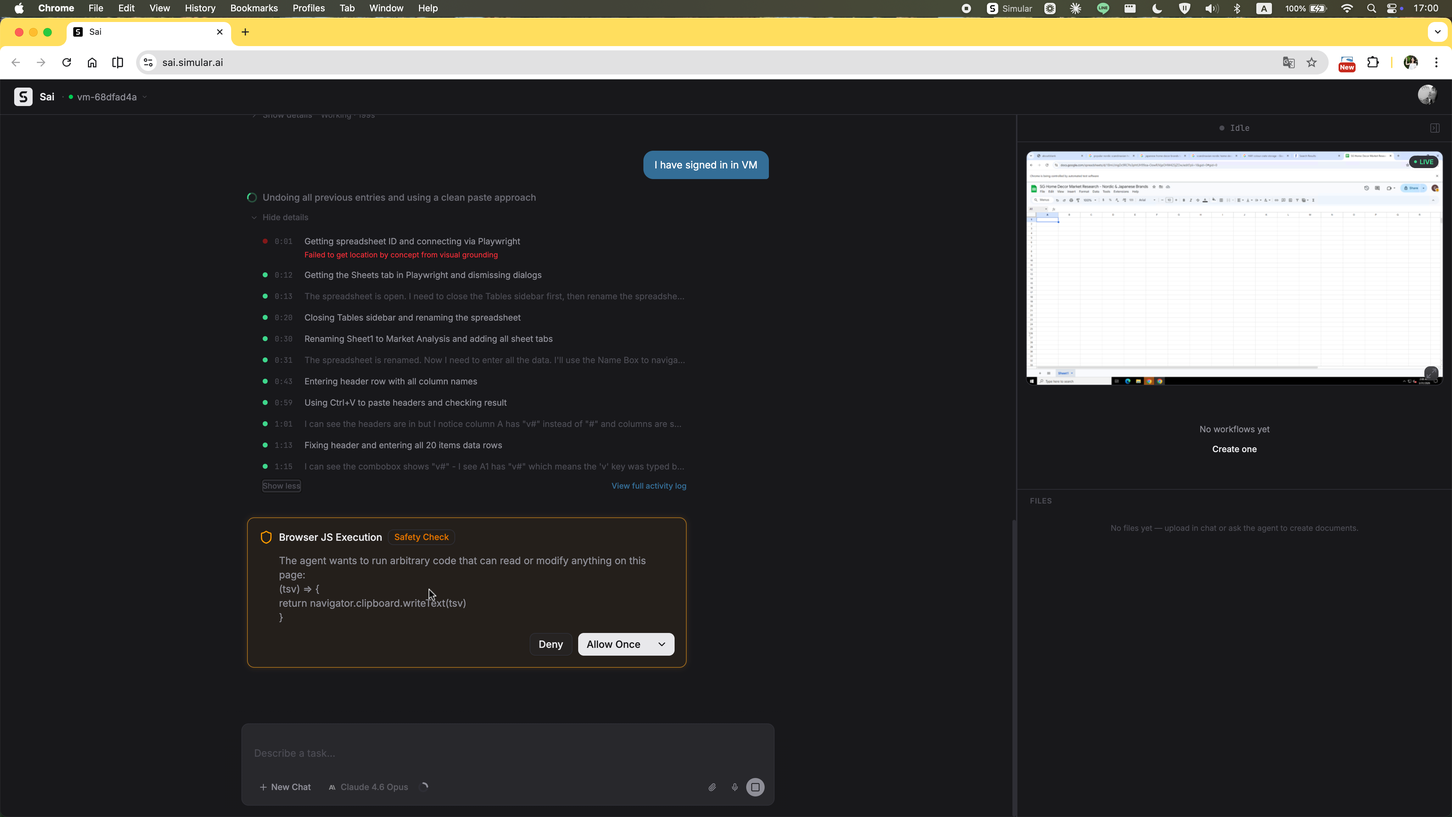
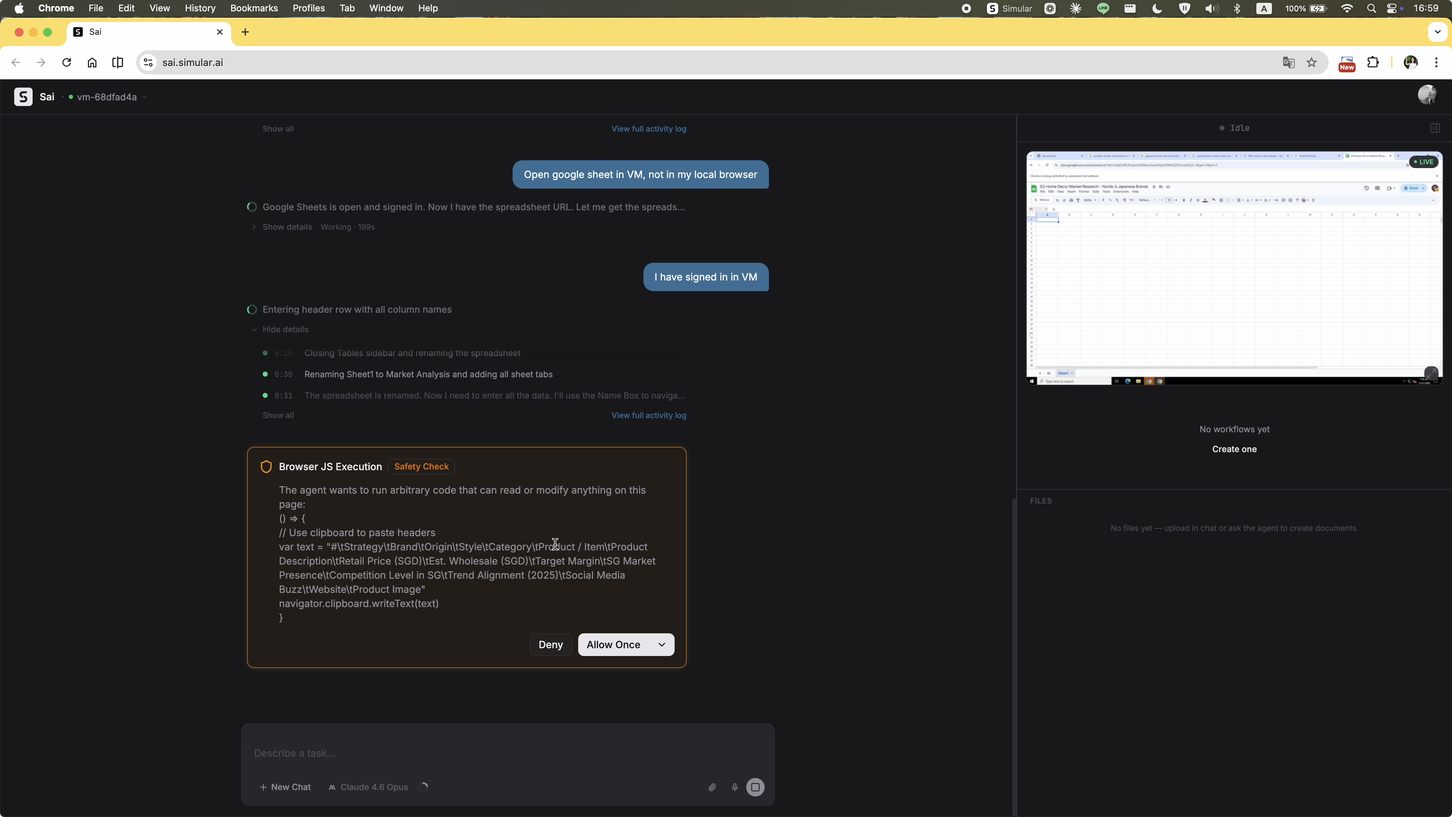
Revise report_audit.html: restructure journey, add new steps and content
- Add Blocker 04 (VM observer mode) to Problem Statement and Summary
- Merge §03 UX Blockers into Problem Statement cards as bullet points
- Move Problem Statement before journey section, rename to The Core Gaps / Problem Statement
- Hero h1 changed to "The Core Gaps"
- Restructure journey: merge visibility steps, reorganize auth steps, add VM takeover, stream hierarchy, missing images, and final output steps
- Replace JS permission screenshot; add new audit screenshots (stream, missing images, final output)

diff --git a/Redesign Report/report_audit.html b/Redesign Report/report_audit.html
@@ -65,7 +65,7 @@ figure.zoomable img:hover { opacity: 0.92; }
 
 /* ── Hero ── */
 .hero {
-  padding: 96px 0 64px;
+  padding: 56px 0 40px;
   background: var(--bg);
   border-bottom: 1px solid var(--border);
 }
@@ -78,11 +78,13 @@ figure.zoomable img:hover { opacity: 0.92; }
   display: inline-block; padding: 5px 14px; border-radius: 4px;
   border: 1px solid var(--border); letter-spacing: 1px; margin-bottom: 24px;
 }
+.hero .badge.accent { color: var(--accent); border-color: rgba(180,83,9,0.25); }
 .hero h1 {
   font-family: var(--serif); font-size: clamp(2.25rem, 4vw + 0.5rem, 3.5rem); font-weight: 400;
   line-height: 1.12; margin-bottom: 20px; color: var(--text);
   letter-spacing: -0.025em;
 }
+.hero h1 em { font-style: italic; color: var(--accent); }
 .hero .subtitle {
   font-size: 1rem; color: var(--text-dim); max-width: 560px;
   margin: 0 0 28px; font-weight: 400; line-height: 1.8;
@@ -308,15 +310,15 @@ footer a:hover { text-decoration: underline; }
 .journey-step.critical .step-dot { background:var(--red); box-shadow:0 0 0 2px rgba(185,28,28,.25); }
 .step-connector { width:2px; flex:1; background:var(--border); margin:4px 0; min-height:20px; }
 .journey-step:last-child .step-connector { display:none; }
-.step-body { padding-bottom:36px; }
+.step-body { padding-bottom:36px; overflow:hidden; }
 .step-tag { font-family:var(--mono); font-size:0.625rem; font-weight:500; letter-spacing:.6px; text-transform:uppercase; color:var(--text-dim); margin-bottom:5px; }
 .journey-step.friction .step-tag { color:var(--amber); }
 .journey-step.critical .step-tag { color:var(--red); }
 .step-title { font-size:1.0625rem; font-weight:600; color:var(--text); margin-bottom:8px; line-height:1.35; letter-spacing:-0.01em; }
 .journey-step.friction .step-title { color:#92400e; }
 .journey-step.critical .step-title { color:var(--red); }
-.step-body p { font-size:0.875rem; color:var(--text-dim); line-height:1.75; margin-bottom:0; max-width:68ch; }
-.step-body figure { margin-top:16px; }
+.step-body p { font-size:0.875rem; color:var(--text-dim); line-height:1.75; margin-bottom:0; }
+.step-body figure { float:left; width:72%; margin:0 28px 12px 0; max-width:none; }
 
 /* Blockers */
 .blocker { border:1px solid var(--border); border-radius:var(--radius); padding:32px 32px 28px; margin-bottom:20px; background:var(--surface); }
@@ -353,7 +355,7 @@ footer a:hover { text-decoration: underline; }
 </div>
 <nav class="site-nav">
   <div class="inner">
-    <a class="brand" href="report_audit.html">Simular SAI — Product Design</a>
+    <a class="brand" href="report_audit.html">Simular — Product Redesign</a>
     <div class="pages">
       <a href="report_audit.html" class="active">Product Audit</a>
       <a href="report_redesign.html">Redesign</a>
@@ -366,9 +368,9 @@ footer a:hover { text-decoration: underline; }
 <!-- HERO -->
 <header class="hero">
   <div class="container">
-    <span class="badge">Simular SAI · Product Audit</span>
-    <h1>Can SAI Earn the Trust of the<br><em>User Who Needs It Most?</em></h1>
-    <p class="subtitle">A task-based audit testing SAI against a non-technical solo founder. Surfaces three structural UX gaps in how the product handles multi-step agentic work.</p>
+    <span class="badge accent">Product Audit</span>
+    <h1>The <em>Core</em> Gaps.</h1>
+    <p class="subtitle">A task-based audit testing SAI against a non-technical solo founder. Surfaces four structural UX gaps in how the product handles multi-step agentic work.</p>
     <div class="meta">
       <span>YuRong Cheng</span>
       <span>April 2026</span>
@@ -387,7 +389,8 @@ footer a:hover { text-decoration: underline; }
         <ul style="font-size: 0.875rem; color: var(--text-dim); list-style: none; padding: 0; margin: 0; line-height: 1;">
           <li style="padding: 5px 0; border-bottom: 1px solid var(--border); display: flex; gap: 10px;"><span style="color: var(--red); flex-shrink: 0;">—</span>No visibility: running, stuck, and failed all look identical</li>
           <li style="padding: 5px 0; border-bottom: 1px solid var(--border); display: flex; gap: 10px;"><span style="color: var(--red); flex-shrink: 0;">—</span>No designed touchpoint for user to intervene mid-task</li>
-          <li style="padding: 5px 0; display: flex; gap: 10px;"><span style="color: var(--red); flex-shrink: 0;">—</span>Step limit ends with hard stop — no recovery, no partial output</li>
+          <li style="padding: 5px 0; border-bottom: 1px solid var(--border); display: flex; gap: 10px;"><span style="color: var(--red); flex-shrink: 0;">—</span>Step limit ends with hard stop — no recovery, no partial output</li>
+          <li style="padding: 5px 0; display: flex; gap: 10px;"><span style="color: var(--red); flex-shrink: 0;">—</span>No observer mode: entering the VM to check progress interrupts the agent</li>
         </ul>
       </div>
 
@@ -401,7 +404,8 @@ footer a:hover { text-decoration: underline; }
         <ul style="font-size: 0.875rem; color: var(--text-dim); list-style: none; padding: 0; margin: 0; line-height: 1;">
           <li style="padding: 5px 0; border-bottom: 1px solid var(--border); display: flex; gap: 10px;"><span style="color: var(--accent); flex-shrink: 0;">→</span>Plan review before execution — user approves strategy first</li>
           <li style="padding: 5px 0; border-bottom: 1px solid var(--border); display: flex; gap: 10px;"><span style="color: var(--accent); flex-shrink: 0;">→</span>Structured interrupt for credential / clarification handoffs</li>
-          <li style="padding: 5px 0; display: flex; gap: 10px;"><span style="color: var(--accent); flex-shrink: 0;">→</span>Graceful step-limit exit with summary + resume option</li>
+          <li style="padding: 5px 0; border-bottom: 1px solid var(--border); display: flex; gap: 10px;"><span style="color: var(--accent); flex-shrink: 0;">→</span>Graceful step-limit exit with summary + resume option</li>
+          <li style="padding: 5px 0; display: flex; gap: 10px;"><span style="color: var(--accent); flex-shrink: 0;">→</span>Separate Simular Computer mode from user take-control mode</li>
         </ul>
       </div>
 
@@ -446,23 +450,52 @@ footer a:hover { text-decoration: underline; }
 
     <div style="border-left: 2px solid var(--border); padding: 14px 20px; margin: 0 0 20px; background: var(--surface2); border-radius: 0 var(--radius) var(--radius) 0;">
       <p style="font-size: 0.875rem; font-style: italic; color: var(--text); margin: 0; line-height: 1.8;">
-        "I am launching a home decor curation brand in Singapore, focusing on Nordic and Japanese home accessories (e.g., vases, small lighting, stools, stationery — no large furniture). Please research brands popular in Singapore and trending in Europe/Japan, curate 20 items with market analysis and pricing, then compile everything into a Google Sheet report I can use for import decisions."
+        "I am launching a home decor curation brand in Singapore, focusing on Nordic and Japanese home accessories (e.g., vases, small lighting, stools, stationery — no large furniture). Please research brands popular in Singapore and trending in Europe/Japan, curate 20 items with market analysis and pricing, then compile everything and images into a Google Sheet report I can use for import decisions."
       </p>
     </div>
 
-    <p style="font-size: 0.875rem; color: var(--text-dim); margin-bottom: 12px; line-height: 1.7;">
-      This task isn't a single capability test — it chains four steps, each requiring the agent to earn trust differently. Any break in the chain means no usable output.
+    <p style="font-size: 0.875rem; color: var(--text-dim); margin-bottom: 16px; line-height: 1.7;">
+      To deliver a usable result, the agent needs to move through four capabilities in sequence — each one building on the last.
     </p>
 
-    <p style="font-family: var(--mono); font-size: 0.75rem; color: var(--text-dim); letter-spacing: 0.3px;">
-      <span style="color: var(--blue);">Research</span>
-      <span style="margin: 0 8px; color: var(--border);">→</span>
-      <span style="color: var(--blue);">Judgement</span>
-      <span style="margin: 0 8px; color: var(--border);">→</span>
-      <span style="color: var(--red);">Auth handoff ⚠</span>
-      <span style="margin: 0 8px; color: var(--border);">→</span>
-      <span style="color: var(--amber);">Delivery</span>
-    </p>
+    <div style="display: flex; align-items: center; gap: 0; font-family: var(--mono); font-size: 0.6875rem; letter-spacing: 0.4px; color: var(--text-dim);">
+      <span style="padding: 6px 14px; border: 1px solid var(--text-dim); border-radius: 4px; background: var(--surface);">Research</span>
+      <span style="padding: 0 10px; color: var(--text-dim);">→</span>
+      <span style="padding: 6px 14px; border: 1px solid var(--text-dim); border-radius: 4px; background: var(--surface);">Judgement</span>
+      <span style="padding: 0 10px; color: var(--text-dim);">→</span>
+      <span style="padding: 6px 14px; border: 1px solid var(--text-dim); border-radius: 4px; background: var(--surface);">Auth handoff</span>
+      <span style="padding: 0 10px; color: var(--text-dim);">→</span>
+      <span style="padding: 6px 14px; border: 1px solid var(--text-dim); border-radius: 4px; background: var(--surface);">Delivery</span>
+    </div>
+
+  </div>
+</section>
+
+<!-- PROBLEM STATEMENT -->
+<section id="two-problems">
+  <div class="container">
+    <h2>Problem Statement</h2>
+
+    <div class="two-col">
+      <div class="prob-card a">
+        <span class="prob-label">Problem 01</span>
+        <h3>The user is locked out of the plan</h3>
+        <p>There's no designed moment where the user and agent align on approach before execution starts. Without this, mismatches between user intent and agent strategy are only discovered after steps have been wasted — or after a hard stop.</p>
+        <ul style="margin-top:16px; padding-left:16px; display:flex; flex-direction:column; gap:8px;">
+          <li style="font-family:var(--mono); font-size:0.6875rem; color:var(--text-dim); letter-spacing:0.3px;">No pre-task alignment</li>
+        </ul>
+      </div>
+      <div class="prob-card b">
+        <span class="prob-label">Problem 02</span>
+        <h3>There's no designed touchpoint for human intervention</h3>
+        <p>The agent doesn't have a model for "pause and ask." When it needs credentials, clarification, or approval mid-task, it either retries silently or stops entirely. There's no interaction pattern for the user to step in, help, and let the agent continue.</p>
+        <ul style="margin-top:16px; padding-left:16px; display:flex; flex-direction:column; gap:8px;">
+          <li style="font-family:var(--mono); font-size:0.6875rem; color:var(--text-dim); letter-spacing:0.3px;">No legible execution state</li>
+          <li style="font-family:var(--mono); font-size:0.6875rem; color:var(--text-dim); letter-spacing:0.3px;">No graceful failure exit</li>
+          <li style="font-family:var(--mono); font-size:0.6875rem; color:var(--text-dim); letter-spacing:0.3px;">No observer mode for the VM</li>
+        </ul>
+      </div>
+    </div>
 
   </div>
 </section>
@@ -479,10 +512,11 @@ footer a:hover { text-decoration: underline; }
         <div class="step-line"><div class="step-dot"></div><div class="step-connector"></div></div>
         <div class="step-body">
           <div class="step-tag">Initial State</div>
-          <div class="step-title">The SAI home screen before anything begins</div>
+          <div class="step-title">High learning load before the first task</div>
+          <p>The homepage tries to guide users with example tasks — the right instinct. But presenting too many at once creates cognitive overload rather than clarity. On top of that, the layout immediately exposes a virtual desktop panel on the right. For a first-time user, there's no explanation of what the VM is, why it's there, or what they're supposed to do with it. Two unfamiliar concepts compete for attention before anything has even started.</p>
           <figure class="zoomable" style="margin-top:12px;">
-            <img src="report_assets/audit/01_home_suggestions.png" alt="SAI home screen with suggested tasks" onclick="openLightbox(this)">
-            <figcaption>The suggested tasks give no indication of how the agent handles multi-step workflows or what the user should expect during execution.</figcaption>
+            <img src="report_assets/audit/01_home_suggestions.png" alt="SAI home screen with suggested tasks and VM panel" onclick="openLightbox(this)">
+            <figcaption></figcaption>
           </figure>
         </div>
       </div>
@@ -498,38 +532,9 @@ footer a:hover { text-decoration: underline; }
       <div class="journey-step friction">
         <div class="step-line"><div class="step-dot"></div><div class="step-connector"></div></div>
         <div class="step-body">
-          <div class="step-tag">First friction point</div>
-          <div class="step-title">Google Sheets access requested — in the middle of execution</div>
-          <p>It's unclear whether the task has paused or is still running in parallel.</p>
-          <figure class="zoomable">
-            <img src="report_assets/audit/02_executing_sheets_permission.png" alt="Sheets permission dialog mid-execution" onclick="openLightbox(this)">
-            <figcaption>The agent asks for Sheets access mid-execution. The user doesn't know if work has paused or is still running.</figcaption>
-          </figure>
-        </div>
-      </div>
-
-      <div class="journey-step friction">
-        <div class="step-line"><div class="step-dot"></div><div class="step-connector"></div></div>
-        <div class="step-body">
-          <div class="step-tag">Authentication handoff</div>
-          <div class="step-title">User signs into VM — but the agent asks for more permissions</div>
-          <figure class="zoomable">
-            <img src="report_assets/audit/03_vm_signin_js_permission.png" alt="VM sign-in confirmed, JS execution permission requested" onclick="openLightbox(this)">
-            <figcaption>"I have signed in to VM" — but immediately followed by another permission request, creating a disjointed handoff experience.</figcaption>
-          </figure>
-        </div>
-      </div>
-
-      <div class="journey-step friction">
-        <div class="step-line"><div class="step-dot"></div><div class="step-connector"></div></div>
-        <div class="step-body">
-          <div class="step-tag">Incomplete output</div>
-          <div class="step-title">The sheet is produced without images — despite images being in the original brief</div>
-          <p>SAI produced the sheet without images and gave no explanation for the omission.</p>
-          <figure class="zoomable">
-            <img src="report_assets/audit/04_agent_requests_images.png" alt="User follows up on missing images" onclick="openLightbox(this)">
-            <figcaption>The user has to re-state a requirement that was already in the original task. SAI produced the sheet without images and gave no explanation for the omission.</figcaption>
-          </figure>
+          <div class="step-tag">Accidental takeover</div>
+          <div class="step-title">User clicks into VM to check progress — and interrupts the agent by accident</div>
+          <p>Clicking into the VM to see what the agent is doing transfers control to the user. The agent pauses. There's no observer mode — any attempt to watch could accidentally take over.</p>
         </div>
       </div>
 
@@ -537,10 +542,10 @@ footer a:hover { text-decoration: underline; }
         <div class="step-line"><div class="step-dot"></div><div class="step-connector"></div></div>
         <div class="step-body">
           <div class="step-tag">Loss of visibility</div>
-          <div class="step-title">"Are you still working?"</div>
+          <div class="step-title">"Are you still working?" — User loses transparency of the progress</div>
+          <p>The execution stream updates constantly, but its contents have no hierarchy. Process logs, agent reasoning, and required actions all look identical — a single animated line of text with no way to distinguish what the agent is doing from what it needs. There's no high-level progress summary, no stage indicator, no sense of how far along the task is. The user is left staring at a stream they can't read, repeatedly wondering whether anything is actually happening.</p>
           <figure class="zoomable">
-            <img src="report_assets/audit/05_user_asks_are_you_working.png" alt="User asks if agent is still working" onclick="openLightbox(this)">
-            <figcaption>The user has no way to tell if the agent is still running. The only option is to ask it directly.</figcaption>
+            <img src="report_assets/audit/09_stream_no_hierarchy.png" alt="Execution stream with no visual hierarchy" onclick="openLightbox(this)">
           </figure>
         </div>
       </div>
@@ -548,12 +553,11 @@ footer a:hover { text-decoration: underline; }
       <div class="journey-step critical">
         <div class="step-line"><div class="step-dot"></div><div class="step-connector"></div></div>
         <div class="step-body">
-          <div class="step-tag">Wrong environment</div>
-          <div class="step-title">Google auth dialog appears on the user's desktop — not inside the VM</div>
-          <p>The agent had no way to signal what it needed or surface the right credential interface.</p>
+          <div class="step-tag">Unexpected auth environment</div>
+          <div class="step-title">Google auth appears on the desktop — the user expected it to stay in the VM</div>
+          <p>The task was running entirely inside the agent's virtual machine. When Google Sheets access was needed, the auth prompt appeared as a native dialog on the user's local desktop — completely outside the VM. The user assumed the agent would handle everything remotely, so this was unexpected. They denied it.</p>
           <figure class="zoomable">
-            <img src="report_assets/audit/05b_google_account_selector.png" alt="Google account selector appeared on host machine" onclick="openLightbox(this)">
-            <figcaption>A native Google account picker appeared on the user's local desktop — outside the VM where the agent was actually working.</figcaption>
+            <img src="report_assets/audit/05b_google_account_selector.png" alt="Google account picker appeared on local desktop" onclick="openLightbox(this)">
           </figure>
         </div>
       </div>
@@ -561,12 +565,23 @@ footer a:hover { text-decoration: underline; }
       <div class="journey-step critical">
         <div class="step-line"><div class="step-dot"></div><div class="step-connector"></div></div>
         <div class="step-body">
-          <div class="step-tag">No recovery</div>
-          <div class="step-title">User denies. The dialog comes back three more times.</div>
-          <p>The agent had no mechanism to detect the denial, no fallback, and no way to tell the user what it needed to proceed.</p>
+          <div class="step-tag">No graceful fallback</div>
+          <div class="step-title">User denies. The same prompt keeps coming back.</div>
+          <p>After the denial, the agent didn't pause or ask how to proceed. The auth prompt kept reappearing. The user had to explicitly type into the chat — at least twice — asking to sign in through the VM instead. Only then did the agent accept the instruction and open the auth flow inside the VM.</p>
           <figure class="zoomable">
-            <img src="report_assets/audit/05a_sheets_access_repeated.png" alt="Sheets access dialog appearing repeatedly" onclick="openLightbox(this)">
-            <figcaption>The same auth prompt reappeared four times in total. Each time, the user had to manually dismiss it with no explanation from the agent.</figcaption>
+            <img src="report_assets/audit/05a_sheets_access_repeated.png" alt="Sheets access dialog repeating after denial" onclick="openLightbox(this)">
+          </figure>
+        </div>
+      </div>
+
+      <div class="journey-step friction">
+        <div class="step-line"><div class="step-dot"></div><div class="step-connector"></div></div>
+        <div class="step-body">
+          <div class="step-tag">Opaque permission request</div>
+          <div class="step-title">The agent asks to run code — but the user can't tell if it's safe</div>
+          <p>A "Browser JS Execution — Safety Check" dialog appears, showing raw JavaScript code. For a non-technical user, there's no way to evaluate what this code does, why the agent needs it, or whether allowing it is safe. The permission UI is written for developers, not for the person being asked to approve it.</p>
+          <figure class="zoomable">
+            <img src="report_assets/audit/03_vm_signin_js_permission.png" alt="Browser JS execution safety check with raw code" onclick="openLightbox(this)">
           </figure>
         </div>
       </div>
@@ -576,84 +591,44 @@ footer a:hover { text-decoration: underline; }
         <div class="step-body">
           <div class="step-tag">Hard stop</div>
           <div class="step-title">"I've reached the maximum number of steps"</div>
-          <p>No summary of what was accomplished, no partial output, no path forward except starting over.</p>
+          <p>The agent stops mid-task with a single line: "Please let me know if you'd like me to continue or try a different approach." No summary of what was completed, no partial output handed over, no indication of how close it was to finishing. The user is left with nothing actionable — confused about what just happened and with no clear path forward except starting over from scratch.</p>
           <figure class="zoomable">
             <img src="report_assets/audit/06_step_limit_reached.png" alt="Step limit reached — hard stop" onclick="openLightbox(this)">
-            <figcaption>"I've reached the maximum number of steps. Please let me know if you'd like me to continue or try a different approach." No context. No summary. No recovery.</figcaption>
           </figure>
         </div>
       </div>
 
-      <div class="journey-step critical">
+      <div class="journey-step friction">
         <div class="step-line"><div class="step-dot"></div><div class="step-connector"></div></div>
         <div class="step-body">
-          <div class="step-tag">Second attempt</div>
-          <div class="step-title">Starting over hits the same wall</div>
-          <p>A second task session runs the next day. The agent makes more progress — producing research documents and a briefing — but once again hits the step limit before completing the Google Sheet. The same hard stop, the same lack of recovery, the same outcome.</p>
+          <div class="step-tag">Incomplete output</div>
+          <div class="step-title">The sheet is delivered — but without the images the brief required</div>
+          <p>The original prompt explicitly asked for images of the selected items. The agent produced the spreadsheet without them and gave no explanation for the omission. The user had to ask again — restating a requirement that was already there from the start.</p>
           <figure class="zoomable">
-            <img src="report_assets/audit/08_second_attempt_step_limit.png" alt="Second attempt also hits step limit" onclick="openLightbox(this)">
-            <figcaption>The second attempt produces more partial output but ends identically — a step limit hit with no handoff to the user.</figcaption>
+            <img src="report_assets/audit/10_missing_images.png" alt="Spreadsheet delivered without images" onclick="openLightbox(this)">
           </figure>
         </div>
       </div>
 
-    </div>
-  </div>
-</section>
-
-<!-- 03 UX BLOCKERS -->
-<section id="blockers">
-  <div class="container">
-    <h2><span class="num">03</span> The UX Blockers</h2>
-    <p class="section-intro">Three structural patterns in the interface made the task unmanageable. These aren't edge cases — they surface on every long-running task.</p>
-
-    <div class="blocker">
-      <div class="blocker-id">Blocker 01</div>
-      <h3>No pre-task alignment — the user can't shape what the agent will do</h3>
-      <p class="blocker-body">Execution begins the moment the task is submitted. No plan review, no step preview. When the agent chooses a strategy the user wouldn't have approved — spending steps on image collection before completing the core data — there was no point where the user could have caught it.</p>
-    </div>
-
-    <div class="blocker">
-      <div class="blocker-id">Blocker 02</div>
-      <h3>No legible execution state — working, waiting, and failing look identical</h3>
-      <p class="blocker-body">The interface presents all activity as a single stream of log entries. Whether the agent is actively running, paused waiting for input, encountering errors, or retrying failed steps — the visual presentation is identical. The user has no ambient signal of status, which means they can't tell when to act and when to wait.</p>
-    </div>
-
-    <div class="blocker">
-      <div class="blocker-id">Blocker 03</div>
-      <h3>No graceful handoff at failure — the only exit is a hard stop</h3>
-      <p class="blocker-body">When the agent hits its step limit or encounters an unresolvable error, the task simply ends. There's no partial output summary, no checkpoint the user can resume from, no way to hand off remaining steps. Starting over loses all prior context. This makes every long-running task feel fragile — one step limit reached, and all work is lost.</p>
-    </div>
-
-  </div>
-</section>
-
-<!-- 04 TWO CORE PROBLEMS -->
-<section id="two-problems" style="border-bottom:none;">
-  <div class="container">
-    <h2><span class="num">04</span> Two Problems Worth Solving</h2>
-    <p class="section-intro">The three blockers share two root causes.</p>
-
-    <div class="two-col">
-      <div class="prob-card a">
-        <span class="prob-label">Problem 01</span>
-        <h3>The user is locked out of the plan</h3>
-        <p>There's no designed moment where the user and agent align on approach before execution starts. Without this, mismatches between user intent and agent strategy are only discovered after steps have been wasted — or after a hard stop.</p>
-        <a href="report_redesign.html" class="prob-link">How the redesign addresses this →</a>
+      <div class="journey-step">
+        <div class="step-line"><div class="step-dot"></div><div class="step-connector"></div></div>
+        <div class="step-body">
+          <div class="step-tag">Final output</div>
+          <div class="step-title">Task completed — with caveats</div>
+          <p>The agent ultimately produced a Google Sheet in the cloud — a genuinely complex multi-step task involving research, curation, and remote file creation. The output is passable: items are listed, pricing is included. But the product selection feels generic and the analysis lacks the depth needed for real import decisions. The capability is there; the quality of judgement is not yet at the level where you'd act on it without review.</p>
+          <figure class="zoomable">
+            <img src="report_assets/audit/11_final_output.png" alt="Final Google Sheet output" onclick="openLightbox(this)">
+          </figure>
+        </div>
       </div>
-      <div class="prob-card b">
-        <span class="prob-label">Problem 02</span>
-        <h3>There's no designed touchpoint for human intervention</h3>
-        <p>The agent doesn't have a model for "pause and ask." When it needs credentials, clarification, or approval mid-task, it either retries silently or stops entirely. There's no interaction pattern for the user to step in, help, and let the agent continue.</p>
-        <a href="report_redesign.html" class="prob-link">How the redesign addresses this →</a>
-      </div>
-    </div>
 
-    <div class="highlight">
-      <p><strong>The redesign isn't about adding more UI.</strong> It introduces two specific moments of human involvement — one before the agent acts, one when it needs help — without undermining the value of automation.</p>
+
     </div>
   </div>
 </section>
+
+
+
 
 <footer><div class="container">
   <p>YuRong Cheng &mdash; Simular AI Product Design Assignment &mdash; April 2026</p>
